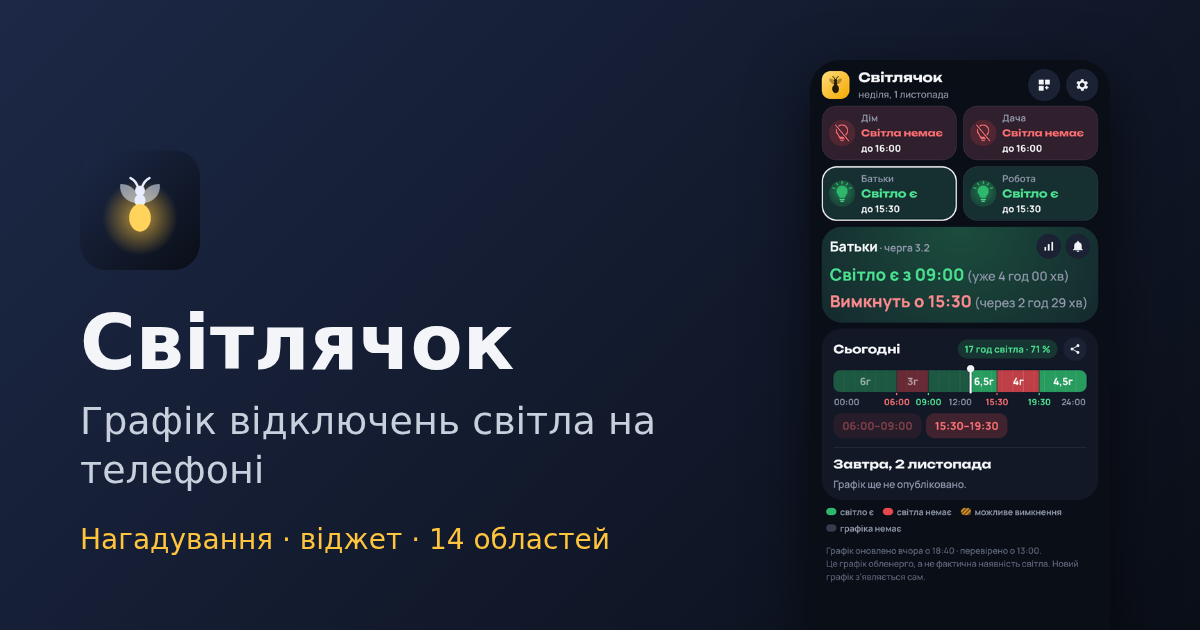
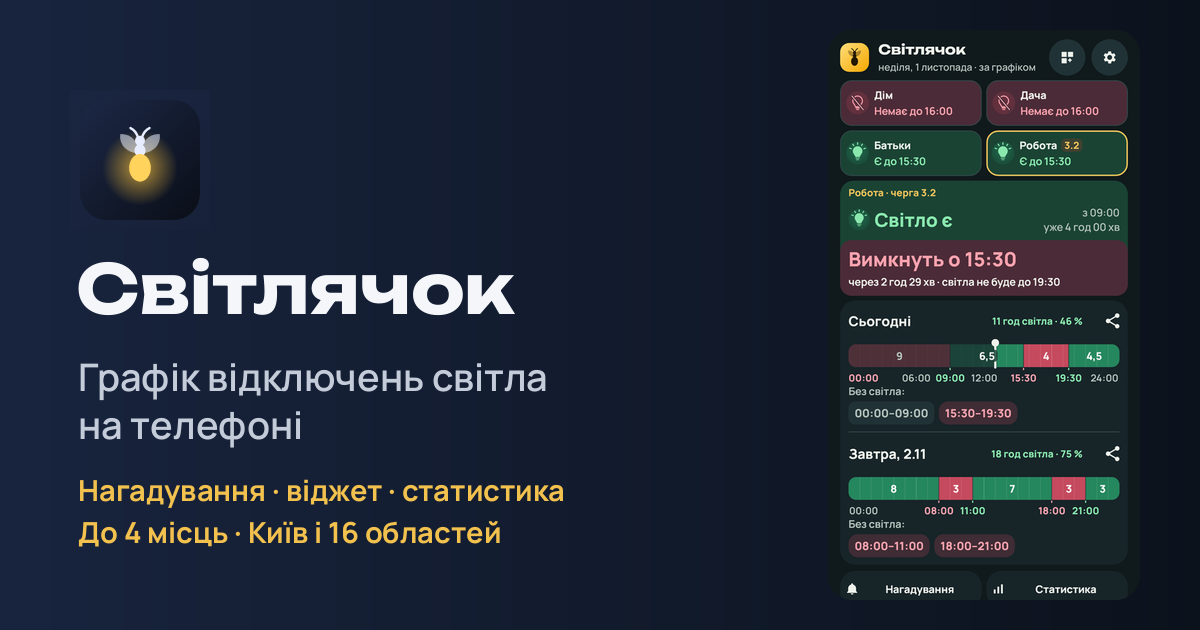
Картинка посилання й опис сайту з поточними можливостями

Changed region(s): [[0.6783, 0.0603, 0.9558, 0.9651], [0.0617, 0.2111, 0.555, 0.8746]]

diff --git a/docs/index.html b/docs/index.html
@@ -4,7 +4,7 @@
 <meta charset="utf-8">
 <meta name="viewport" content="width=device-width,initial-scale=1">
 <title>Світлячок — графік відключень світла на телефоні (Android)</title>
-<meta name="description" content="Безкоштовний Android-застосунок із графіком відключень світла для вашої черги: чи є світло зараз, до котрої години й що буде завтра. Нагадування, віджет, Київ і 16 областей. Нічого не надсилає з телефона.">
+<meta name="description" content="Безкоштовний Android-застосунок із графіком відключень світла для вашої черги: чи є світло зараз, до котрої години й що буде завтра. Нагадування, віджет, статистика, до 4 місць, Київ і 16 областей. Нічого не надсилає з телефона.">
 <link rel="canonical" href="https://abovsh.github.io/svitlyachok/">
 <link rel="icon" href="icon.svg" type="image/svg+xml">
 <link rel="apple-touch-icon" href="icon-192.png">
@@ -13,14 +13,14 @@
 <meta property="og:locale" content="uk_UA">
 <meta property="og:site_name" content="Світлячок">
 <meta property="og:title" content="Світлячок — графік відключень світла на телефоні (Android)">
-<meta property="og:description" content="Безкоштовний Android-застосунок із графіком відключень світла для вашої черги: чи є світло зараз, до котрої години й що буде завтра. Нагадування, віджет, Київ і 16 областей. Нічого не надсилає з телефона.">
+<meta property="og:description" content="Безкоштовний Android-застосунок із графіком відключень світла для вашої черги: чи є світло зараз, до котрої години й що буде завтра. Нагадування, віджет, статистика, до 4 місць, Київ і 16 областей. Нічого не надсилає з телефона.">
 <meta property="og:url" content="https://abovsh.github.io/svitlyachok/">
-<meta property="og:image" content="https://abovsh.github.io/svitlyachok/og.png">
+<meta property="og:image" content="https://abovsh.github.io/svitlyachok/og.png?v=1.6.0">
 <meta property="og:image:width" content="1200">
 <meta property="og:image:height" content="630">
 <meta name="twitter:card" content="summary_large_image">
 <link rel="stylesheet" href="site.css">
-<script type="application/ld+json">{"@context": "https://schema.org", "@type": "SoftwareApplication", "name": "Світлячок", "alternateName": "Svitlyachok", "operatingSystem": "Android 8.0+", "applicationCategory": "UtilitiesApplication", "description": "Безкоштовний Android-застосунок із графіком відключень світла для вашої черги: чи є світло зараз, до котрої години й що буде завтра. Нагадування, віджет, Київ і 16 областей. Нічого не надсилає з телефона.", "url": "https://abovsh.github.io/svitlyachok/", "downloadUrl": "https://github.com/ABovsh/svitlyachok/releases/latest", "inLanguage": "uk", "isAccessibleForFree": true, "license": "https://opensource.org/licenses/MIT", "image": "https://abovsh.github.io/svitlyachok/og.png", "screenshot": ["https://abovsh.github.io/svitlyachok/screenshots/main-dark.png", "https://abovsh.github.io/svitlyachok/screenshots/stats.png", "https://abovsh.github.io/svitlyachok/screenshots/settings.png", "https://abovsh.github.io/svitlyachok/screenshots/main-light.png"], "offers": {"@type": "Offer", "price": "0", "priceCurrency": "UAH"}}</script>
+<script type="application/ld+json">{"@context": "https://schema.org", "@type": "SoftwareApplication", "name": "Світлячок", "alternateName": "Svitlyachok", "operatingSystem": "Android 8.0+", "applicationCategory": "UtilitiesApplication", "description": "Безкоштовний Android-застосунок із графіком відключень світла для вашої черги: чи є світло зараз, до котрої години й що буде завтра. Нагадування, віджет, статистика, до 4 місць, Київ і 16 областей. Нічого не надсилає з телефона.", "url": "https://abovsh.github.io/svitlyachok/", "downloadUrl": "https://github.com/ABovsh/svitlyachok/releases/latest", "inLanguage": "uk", "isAccessibleForFree": true, "license": "https://opensource.org/licenses/MIT", "image": "https://abovsh.github.io/svitlyachok/og.png?v=1.6.0", "screenshot": ["https://abovsh.github.io/svitlyachok/screenshots/main-dark.png", "https://abovsh.github.io/svitlyachok/screenshots/stats.png", "https://abovsh.github.io/svitlyachok/screenshots/settings.png", "https://abovsh.github.io/svitlyachok/screenshots/main-light.png"], "offers": {"@type": "Offer", "price": "0", "priceCurrency": "UAH"}}</script>
 <script type="application/ld+json">{"@context": "https://schema.org", "@type": "FAQPage", "mainEntity": [{"@type": "Question", "name": "Скільки коштує Світлячок?", "acceptedAnswer": {"@type": "Answer", "text": "Нічого. Без реклами, без облікового запису й без платних функцій."}}, {"@type": "Question", "name": "Чи є версія для iPhone?", "acceptedAnswer": {"@type": "Answer", "text": "Ні, лише для Android 8.0 і новіших."}}, {"@type": "Question", "name": "Чи показує застосунок, чи є світло насправді?", "acceptedAnswer": {"@type": "Answer", "text": "Ні. Він показує графік, який публікує обленерго, а не фактичну наявність світла у вашому будинку."}}, {"@type": "Question", "name": "Як дізнатися свою чергу в Києві?", "acceptedAnswer": {"@type": "Answer", "text": "Сайт ДТЕК для Києва графік показує, а номер черги ні. Знайти її за адресою можна на сайті «Без світла» (bezsvitla.com.ua/kyiv), посилання є і в застосунку під час вибору черги. Це неофіційний сайт; перевірити чергу можна на гарячій лінії ДТЕК 1588."}}, {"@type": "Question", "name": "Як часто оновлюється графік?", "acceptedAnswer": {"@type": "Answer", "text": "Приблизно раз на 15 хвилин і щоразу, коли ви відкриваєте застосунок. Новий графік з'являється на екрані й на віджетах сам."}}, {"@type": "Question", "name": "Чому застосунку немає в Google Play і чи безпечно встановлювати файл?", "acceptedAnswer": {"@type": "Answer", "text": "Поки що Світлячок поширюється лише через GitHub. Код застосунку відкритий, біля кожного файлу випуску вказано його SHA-256, а сам застосунок нічого не надсилає з телефона."}}, {"@type": "Question", "name": "Як оновлювати застосунок?", "acceptedAnswer": {"@type": "Answer", "text": "Коли вийде нова версія, на головному екрані застосунку з'явиться картка. Натисніть «Оновити» — нова версія встановиться поверх, місця й налаштування збережуться."}}]}</script>
 </head>
 <body>

diff --git a/docs/dnipropetrovska/index.html b/docs/dnipropetrovska/index.html
@@ -15,12 +15,12 @@
 <meta property="og:title" content="Графік відключень світла — Дніпропетровська область | Світлячок">
 <meta property="og:description" content="Графік погодинних відключень світла Дніпропетровської області (ДТЕК Дніпровські електромережі) на телефоні: чи є світло зараз, до котрої години й що буде завтра. Нагадування й віджет для вашої черги. Безкоштовно, Android.">
 <meta property="og:url" content="https://abovsh.github.io/svitlyachok/dnipropetrovska/">
-<meta property="og:image" content="https://abovsh.github.io/svitlyachok/og.png">
+<meta property="og:image" content="https://abovsh.github.io/svitlyachok/og.png?v=1.6.0">
 <meta property="og:image:width" content="1200">
 <meta property="og:image:height" content="630">
 <meta name="twitter:card" content="summary_large_image">
 <link rel="stylesheet" href="../site.css">
-<script type="application/ld+json">{"@context": "https://schema.org", "@type": "SoftwareApplication", "name": "Світлячок", "alternateName": "Svitlyachok", "operatingSystem": "Android 8.0+", "applicationCategory": "UtilitiesApplication", "description": "Графік погодинних відключень світла Дніпропетровської області (ДТЕК Дніпровські електромережі) на телефоні: чи є світло зараз, до котрої години й що буде завтра. Нагадування й віджет для вашої черги. Безкоштовно, Android.", "url": "https://abovsh.github.io/svitlyachok/", "downloadUrl": "https://github.com/ABovsh/svitlyachok/releases/latest", "inLanguage": "uk", "isAccessibleForFree": true, "license": "https://opensource.org/licenses/MIT", "image": "https://abovsh.github.io/svitlyachok/og.png", "screenshot": ["https://abovsh.github.io/svitlyachok/screenshots/main-dark.png", "https://abovsh.github.io/svitlyachok/screenshots/stats.png", "https://abovsh.github.io/svitlyachok/screenshots/settings.png", "https://abovsh.github.io/svitlyachok/screenshots/main-light.png"], "offers": {"@type": "Offer", "price": "0", "priceCurrency": "UAH"}}</script>
+<script type="application/ld+json">{"@context": "https://schema.org", "@type": "SoftwareApplication", "name": "Світлячок", "alternateName": "Svitlyachok", "operatingSystem": "Android 8.0+", "applicationCategory": "UtilitiesApplication", "description": "Графік погодинних відключень світла Дніпропетровської області (ДТЕК Дніпровські електромережі) на телефоні: чи є світло зараз, до котрої години й що буде завтра. Нагадування й віджет для вашої черги. Безкоштовно, Android.", "url": "https://abovsh.github.io/svitlyachok/", "downloadUrl": "https://github.com/ABovsh/svitlyachok/releases/latest", "inLanguage": "uk", "isAccessibleForFree": true, "license": "https://opensource.org/licenses/MIT", "image": "https://abovsh.github.io/svitlyachok/og.png?v=1.6.0", "screenshot": ["https://abovsh.github.io/svitlyachok/screenshots/main-dark.png", "https://abovsh.github.io/svitlyachok/screenshots/stats.png", "https://abovsh.github.io/svitlyachok/screenshots/settings.png", "https://abovsh.github.io/svitlyachok/screenshots/main-light.png"], "offers": {"@type": "Offer", "price": "0", "priceCurrency": "UAH"}}</script>
 <script type="application/ld+json">{"@context": "https://schema.org", "@type": "BreadcrumbList", "itemListElement": [{"@type": "ListItem", "position": 1, "name": "Світлячок", "item": "https://abovsh.github.io/svitlyachok/"}, {"@type": "ListItem", "position": 2, "name": "Дніпропетровська область", "item": "https://abovsh.github.io/svitlyachok/dnipropetrovska/"}]}</script>
 </head>
 <body>

diff --git a/docs/kyivska/index.html b/docs/kyivska/index.html
@@ -15,12 +15,12 @@
 <meta property="og:title" content="Графік відключень світла — Київська область | Світлячок">
 <meta property="og:description" content="Графік погодинних відключень світла Київської області (ДТЕК Київські регіональні електромережі) на телефоні: чи є світло зараз, до котрої години й що буде завтра. Нагадування й віджет для вашої черги. Безкоштовно, Android.">
 <meta property="og:url" content="https://abovsh.github.io/svitlyachok/kyivska/">
-<meta property="og:image" content="https://abovsh.github.io/svitlyachok/og.png">
+<meta property="og:image" content="https://abovsh.github.io/svitlyachok/og.png?v=1.6.0">
 <meta property="og:image:width" content="1200">
 <meta property="og:image:height" content="630">
 <meta name="twitter:card" content="summary_large_image">
 <link rel="stylesheet" href="../site.css">
-<script type="application/ld+json">{"@context": "https://schema.org", "@type": "SoftwareApplication", "name": "Світлячок", "alternateName": "Svitlyachok", "operatingSystem": "Android 8.0+", "applicationCategory": "UtilitiesApplication", "description": "Графік погодинних відключень світла Київської області (ДТЕК Київські регіональні електромережі) на телефоні: чи є світло зараз, до котрої години й що буде завтра. Нагадування й віджет для вашої черги. Безкоштовно, Android.", "url": "https://abovsh.github.io/svitlyachok/", "downloadUrl": "https://github.com/ABovsh/svitlyachok/releases/latest", "inLanguage": "uk", "isAccessibleForFree": true, "license": "https://opensource.org/licenses/MIT", "image": "https://abovsh.github.io/svitlyachok/og.png", "screenshot": ["https://abovsh.github.io/svitlyachok/screenshots/main-dark.png", "https://abovsh.github.io/svitlyachok/screenshots/stats.png", "https://abovsh.github.io/svitlyachok/screenshots/settings.png", "https://abovsh.github.io/svitlyachok/screenshots/main-light.png"], "offers": {"@type": "Offer", "price": "0", "priceCurrency": "UAH"}}</script>
+<script type="application/ld+json">{"@context": "https://schema.org", "@type": "SoftwareApplication", "name": "Світлячок", "alternateName": "Svitlyachok", "operatingSystem": "Android 8.0+", "applicationCategory": "UtilitiesApplication", "description": "Графік погодинних відключень світла Київської області (ДТЕК Київські регіональні електромережі) на телефоні: чи є світло зараз, до котрої години й що буде завтра. Нагадування й віджет для вашої черги. Безкоштовно, Android.", "url": "https://abovsh.github.io/svitlyachok/", "downloadUrl": "https://github.com/ABovsh/svitlyachok/releases/latest", "inLanguage": "uk", "isAccessibleForFree": true, "license": "https://opensource.org/licenses/MIT", "image": "https://abovsh.github.io/svitlyachok/og.png?v=1.6.0", "screenshot": ["https://abovsh.github.io/svitlyachok/screenshots/main-dark.png", "https://abovsh.github.io/svitlyachok/screenshots/stats.png", "https://abovsh.github.io/svitlyachok/screenshots/settings.png", "https://abovsh.github.io/svitlyachok/screenshots/main-light.png"], "offers": {"@type": "Offer", "price": "0", "priceCurrency": "UAH"}}</script>
 <script type="application/ld+json">{"@context": "https://schema.org", "@type": "BreadcrumbList", "itemListElement": [{"@type": "ListItem", "position": 1, "name": "Світлячок", "item": "https://abovsh.github.io/svitlyachok/"}, {"@type": "ListItem", "position": 2, "name": "Київська область", "item": "https://abovsh.github.io/svitlyachok/kyivska/"}]}</script>
 </head>
 <body>

diff --git a/docs/ivano-frankivska/index.html b/docs/ivano-frankivska/index.html
@@ -15,12 +15,12 @@
 <meta property="og:title" content="Графік відключень світла — Івано-Франківська область | Світлячок">
 <meta property="og:description" content="Графік погодинних відключень світла Івано-Франківської області (Прикарпаттяобленерго) на телефоні: чи є світло зараз, до котрої години й що буде завтра. Нагадування й віджет для вашої черги. Безкоштовно, Android.">
 <meta property="og:url" content="https://abovsh.github.io/svitlyachok/ivano-frankivska/">
-<meta property="og:image" content="https://abovsh.github.io/svitlyachok/og.png">
+<meta property="og:image" content="https://abovsh.github.io/svitlyachok/og.png?v=1.6.0">
 <meta property="og:image:width" content="1200">
 <meta property="og:image:height" content="630">
 <meta name="twitter:card" content="summary_large_image">
 <link rel="stylesheet" href="../site.css">
-<script type="application/ld+json">{"@context": "https://schema.org", "@type": "SoftwareApplication", "name": "Світлячок", "alternateName": "Svitlyachok", "operatingSystem": "Android 8.0+", "applicationCategory": "UtilitiesApplication", "description": "Графік погодинних відключень світла Івано-Франківської області (Прикарпаттяобленерго) на телефоні: чи є світло зараз, до котрої години й що буде завтра. Нагадування й віджет для вашої черги. Безкоштовно, Android.", "url": "https://abovsh.github.io/svitlyachok/", "downloadUrl": "https://github.com/ABovsh/svitlyachok/releases/latest", "inLanguage": "uk", "isAccessibleForFree": true, "license": "https://opensource.org/licenses/MIT", "image": "https://abovsh.github.io/svitlyachok/og.png", "screenshot": ["https://abovsh.github.io/svitlyachok/screenshots/main-dark.png", "https://abovsh.github.io/svitlyachok/screenshots/stats.png", "https://abovsh.github.io/svitlyachok/screenshots/settings.png", "https://abovsh.github.io/svitlyachok/screenshots/main-light.png"], "offers": {"@type": "Offer", "price": "0", "priceCurrency": "UAH"}}</script>
+<script type="application/ld+json">{"@context": "https://schema.org", "@type": "SoftwareApplication", "name": "Світлячок", "alternateName": "Svitlyachok", "operatingSystem": "Android 8.0+", "applicationCategory": "UtilitiesApplication", "description": "Графік погодинних відключень світла Івано-Франківської області (Прикарпаттяобленерго) на телефоні: чи є світло зараз, до котрої години й що буде завтра. Нагадування й віджет для вашої черги. Безкоштовно, Android.", "url": "https://abovsh.github.io/svitlyachok/", "downloadUrl": "https://github.com/ABovsh/svitlyachok/releases/latest", "inLanguage": "uk", "isAccessibleForFree": true, "license": "https://opensource.org/licenses/MIT", "image": "https://abovsh.github.io/svitlyachok/og.png?v=1.6.0", "screenshot": ["https://abovsh.github.io/svitlyachok/screenshots/main-dark.png", "https://abovsh.github.io/svitlyachok/screenshots/stats.png", "https://abovsh.github.io/svitlyachok/screenshots/settings.png", "https://abovsh.github.io/svitlyachok/screenshots/main-light.png"], "offers": {"@type": "Offer", "price": "0", "priceCurrency": "UAH"}}</script>
 <script type="application/ld+json">{"@context": "https://schema.org", "@type": "BreadcrumbList", "itemListElement": [{"@type": "ListItem", "position": 1, "name": "Світлячок", "item": "https://abovsh.github.io/svitlyachok/"}, {"@type": "ListItem", "position": 2, "name": "Івано-Франківська область", "item": "https://abovsh.github.io/svitlyachok/ivano-frankivska/"}]}</script>
 </head>
 <body>

diff --git a/docs/ternopilska/index.html b/docs/ternopilska/index.html
@@ -15,12 +15,12 @@
 <meta property="og:title" content="Графік відключень світла — Тернопільська область | Світлячок">
 <meta property="og:description" content="Графік погодинних відключень світла Тернопільської області (Тернопільобленерго) на телефоні: чи є світло зараз, до котрої години й що буде завтра. Нагадування й віджет для вашої черги. Безкоштовно, Android.">
 <meta property="og:url" content="https://abovsh.github.io/svitlyachok/ternopilska/">
-<meta property="og:image" content="https://abovsh.github.io/svitlyachok/og.png">
+<meta property="og:image" content="https://abovsh.github.io/svitlyachok/og.png?v=1.6.0">
 <meta property="og:image:width" content="1200">
 <meta property="og:image:height" content="630">
 <meta name="twitter:card" content="summary_large_image">
 <link rel="stylesheet" href="../site.css">
-<script type="application/ld+json">{"@context": "https://schema.org", "@type": "SoftwareApplication", "name": "Світлячок", "alternateName": "Svitlyachok", "operatingSystem": "Android 8.0+", "applicationCategory": "UtilitiesApplication", "description": "Графік погодинних відключень світла Тернопільської області (Тернопільобленерго) на телефоні: чи є світло зараз, до котрої години й що буде завтра. Нагадування й віджет для вашої черги. Безкоштовно, Android.", "url": "https://abovsh.github.io/svitlyachok/", "downloadUrl": "https://github.com/ABovsh/svitlyachok/releases/latest", "inLanguage": "uk", "isAccessibleForFree": true, "license": "https://opensource.org/licenses/MIT", "image": "https://abovsh.github.io/svitlyachok/og.png", "screenshot": ["https://abovsh.github.io/svitlyachok/screenshots/main-dark.png", "https://abovsh.github.io/svitlyachok/screenshots/stats.png", "https://abovsh.github.io/svitlyachok/screenshots/settings.png", "https://abovsh.github.io/svitlyachok/screenshots/main-light.png"], "offers": {"@type": "Offer", "price": "0", "priceCurrency": "UAH"}}</script>
+<script type="application/ld+json">{"@context": "https://schema.org", "@type": "SoftwareApplication", "name": "Світлячок", "alternateName": "Svitlyachok", "operatingSystem": "Android 8.0+", "applicationCategory": "UtilitiesApplication", "description": "Графік погодинних відключень світла Тернопільської області (Тернопільобленерго) на телефоні: чи є світло зараз, до котрої години й що буде завтра. Нагадування й віджет для вашої черги. Безкоштовно, Android.", "url": "https://abovsh.github.io/svitlyachok/", "downloadUrl": "https://github.com/ABovsh/svitlyachok/releases/latest", "inLanguage": "uk", "isAccessibleForFree": true, "license": "https://opensource.org/licenses/MIT", "image": "https://abovsh.github.io/svitlyachok/og.png?v=1.6.0", "screenshot": ["https://abovsh.github.io/svitlyachok/screenshots/main-dark.png", "https://abovsh.github.io/svitlyachok/screenshots/stats.png", "https://abovsh.github.io/svitlyachok/screenshots/settings.png", "https://abovsh.github.io/svitlyachok/screenshots/main-light.png"], "offers": {"@type": "Offer", "price": "0", "priceCurrency": "UAH"}}</script>
 <script type="application/ld+json">{"@context": "https://schema.org", "@type": "BreadcrumbList", "itemListElement": [{"@type": "ListItem", "position": 1, "name": "Світлячок", "item": "https://abovsh.github.io/svitlyachok/"}, {"@type": "ListItem", "position": 2, "name": "Тернопільська область", "item": "https://abovsh.github.io/svitlyachok/ternopilska/"}]}</script>
 </head>
 <body>

diff --git a/docs/zakarpatska/index.html b/docs/zakarpatska/index.html
@@ -15,12 +15,12 @@
 <meta property="og:title" content="Графік відключень світла — Закарпатська область | Світлячок">
 <meta property="og:description" content="Графік погодинних відключень світла Закарпатської області (Закарпаттяобленерго) на телефоні: чи є світло зараз, до котрої години й що буде завтра. Нагадування й віджет для вашої черги. Безкоштовно, Android.">
 <meta property="og:url" content="https://abovsh.github.io/svitlyachok/zakarpatska/">
-<meta property="og:image" content="https://abovsh.github.io/svitlyachok/og.png">
+<meta property="og:image" content="https://abovsh.github.io/svitlyachok/og.png?v=1.6.0">
 <meta property="og:image:width" content="1200">
 <meta property="og:image:height" content="630">
 <meta name="twitter:card" content="summary_large_image">
 <link rel="stylesheet" href="../site.css">
-<script type="application/ld+json">{"@context": "https://schema.org", "@type": "SoftwareApplication", "name": "Світлячок", "alternateName": "Svitlyachok", "operatingSystem": "Android 8.0+", "applicationCategory": "UtilitiesApplication", "description": "Графік погодинних відключень світла Закарпатської області (Закарпаттяобленерго) на телефоні: чи є світло зараз, до котрої години й що буде завтра. Нагадування й віджет для вашої черги. Безкоштовно, Android.", "url": "https://abovsh.github.io/svitlyachok/", "downloadUrl": "https://github.com/ABovsh/svitlyachok/releases/latest", "inLanguage": "uk", "isAccessibleForFree": true, "license": "https://opensource.org/licenses/MIT", "image": "https://abovsh.github.io/svitlyachok/og.png", "screenshot": ["https://abovsh.github.io/svitlyachok/screenshots/main-dark.png", "https://abovsh.github.io/svitlyachok/screenshots/stats.png", "https://abovsh.github.io/svitlyachok/screenshots/settings.png", "https://abovsh.github.io/svitlyachok/screenshots/main-light.png"], "offers": {"@type": "Offer", "price": "0", "priceCurrency": "UAH"}}</script>
+<script type="application/ld+json">{"@context": "https://schema.org", "@type": "SoftwareApplication", "name": "Світлячок", "alternateName": "Svitlyachok", "operatingSystem": "Android 8.0+", "applicationCategory": "UtilitiesApplication", "description": "Графік погодинних відключень світла Закарпатської області (Закарпаттяобленерго) на телефоні: чи є світло зараз, до котрої години й що буде завтра. Нагадування й віджет для вашої черги. Безкоштовно, Android.", "url": "https://abovsh.github.io/svitlyachok/", "downloadUrl": "https://github.com/ABovsh/svitlyachok/releases/latest", "inLanguage": "uk", "isAccessibleForFree": true, "license": "https://opensource.org/licenses/MIT", "image": "https://abovsh.github.io/svitlyachok/og.png?v=1.6.0", "screenshot": ["https://abovsh.github.io/svitlyachok/screenshots/main-dark.png", "https://abovsh.github.io/svitlyachok/screenshots/stats.png", "https://abovsh.github.io/svitlyachok/screenshots/settings.png", "https://abovsh.github.io/svitlyachok/screenshots/main-light.png"], "offers": {"@type": "Offer", "price": "0", "priceCurrency": "UAH"}}</script>
 <script type="application/ld+json">{"@context": "https://schema.org", "@type": "BreadcrumbList", "itemListElement": [{"@type": "ListItem", "position": 1, "name": "Світлячок", "item": "https://abovsh.github.io/svitlyachok/"}, {"@type": "ListItem", "position": 2, "name": "Закарпатська область", "item": "https://abovsh.github.io/svitlyachok/zakarpatska/"}]}</script>
 </head>
 <body>

diff --git a/docs/chernihivska/index.html b/docs/chernihivska/index.html
@@ -15,12 +15,12 @@
 <meta property="og:title" content="Графік відключень світла — Чернігівська область | Світлячок">
 <meta property="og:description" content="Графік погодинних відключень світла Чернігівської області (Чернігівобленерго) на телефоні: чи є світло зараз, до котрої години й що буде завтра. Нагадування й віджет для вашої черги. Безкоштовно, Android.">
 <meta property="og:url" content="https://abovsh.github.io/svitlyachok/chernihivska/">
-<meta property="og:image" content="https://abovsh.github.io/svitlyachok/og.png">
+<meta property="og:image" content="https://abovsh.github.io/svitlyachok/og.png?v=1.6.0">
 <meta property="og:image:width" content="1200">
 <meta property="og:image:height" content="630">
 <meta name="twitter:card" content="summary_large_image">
 <link rel="stylesheet" href="../site.css">
-<script type="application/ld+json">{"@context": "https://schema.org", "@type": "SoftwareApplication", "name": "Світлячок", "alternateName": "Svitlyachok", "operatingSystem": "Android 8.0+", "applicationCategory": "UtilitiesApplication", "description": "Графік погодинних відключень світла Чернігівської області (Чернігівобленерго) на телефоні: чи є світло зараз, до котрої години й що буде завтра. Нагадування й віджет для вашої черги. Безкоштовно, Android.", "url": "https://abovsh.github.io/svitlyachok/", "downloadUrl": "https://github.com/ABovsh/svitlyachok/releases/latest", "inLanguage": "uk", "isAccessibleForFree": true, "license": "https://opensource.org/licenses/MIT", "image": "https://abovsh.github.io/svitlyachok/og.png", "screenshot": ["https://abovsh.github.io/svitlyachok/screenshots/main-dark.png", "https://abovsh.github.io/svitlyachok/screenshots/stats.png", "https://abovsh.github.io/svitlyachok/screenshots/settings.png", "https://abovsh.github.io/svitlyachok/screenshots/main-light.png"], "offers": {"@type": "Offer", "price": "0", "priceCurrency": "UAH"}}</script>
+<script type="application/ld+json">{"@context": "https://schema.org", "@type": "SoftwareApplication", "name": "Світлячок", "alternateName": "Svitlyachok", "operatingSystem": "Android 8.0+", "applicationCategory": "UtilitiesApplication", "description": "Графік погодинних відключень світла Чернігівської області (Чернігівобленерго) на телефоні: чи є світло зараз, до котрої години й що буде завтра. Нагадування й віджет для вашої черги. Безкоштовно, Android.", "url": "https://abovsh.github.io/svitlyachok/", "downloadUrl": "https://github.com/ABovsh/svitlyachok/releases/latest", "inLanguage": "uk", "isAccessibleForFree": true, "license": "https://opensource.org/licenses/MIT", "image": "https://abovsh.github.io/svitlyachok/og.png?v=1.6.0", "screenshot": ["https://abovsh.github.io/svitlyachok/screenshots/main-dark.png", "https://abovsh.github.io/svitlyachok/screenshots/stats.png", "https://abovsh.github.io/svitlyachok/screenshots/settings.png", "https://abovsh.github.io/svitlyachok/screenshots/main-light.png"], "offers": {"@type": "Offer", "price": "0", "priceCurrency": "UAH"}}</script>
 <script type="application/ld+json">{"@context": "https://schema.org", "@type": "BreadcrumbList", "itemListElement": [{"@type": "ListItem", "position": 1, "name": "Світлячок", "item": "https://abovsh.github.io/svitlyachok/"}, {"@type": "ListItem", "position": 2, "name": "Чернігівська область", "item": "https://abovsh.github.io/svitlyachok/chernihivska/"}]}</script>
 </head>
 <body>

diff --git a/docs/khmelnytska/index.html b/docs/khmelnytska/index.html
@@ -15,12 +15,12 @@
 <meta property="og:title" content="Графік відключень світла — Хмельницька область | Світлячок">
 <meta property="og:description" content="Графік погодинних відключень світла Хмельницької області (Хмельницькобленерго) на телефоні: чи є світло зараз, до котрої години й що буде завтра. Нагадування й віджет для вашої черги. Безкоштовно, Android.">
 <meta property="og:url" content="https://abovsh.github.io/svitlyachok/khmelnytska/">
-<meta property="og:image" content="https://abovsh.github.io/svitlyachok/og.png">
+<meta property="og:image" content="https://abovsh.github.io/svitlyachok/og.png?v=1.6.0">
 <meta property="og:image:width" content="1200">
 <meta property="og:image:height" content="630">
 <meta name="twitter:card" content="summary_large_image">
 <link rel="stylesheet" href="../site.css">
-<script type="application/ld+json">{"@context": "https://schema.org", "@type": "SoftwareApplication", "name": "Світлячок", "alternateName": "Svitlyachok", "operatingSystem": "Android 8.0+", "applicationCategory": "UtilitiesApplication", "description": "Графік погодинних відключень світла Хмельницької області (Хмельницькобленерго) на телефоні: чи є світло зараз, до котрої години й що буде завтра. Нагадування й віджет для вашої черги. Безкоштовно, Android.", "url": "https://abovsh.github.io/svitlyachok/", "downloadUrl": "https://github.com/ABovsh/svitlyachok/releases/latest", "inLanguage": "uk", "isAccessibleForFree": true, "license": "https://opensource.org/licenses/MIT", "image": "https://abovsh.github.io/svitlyachok/og.png", "screenshot": ["https://abovsh.github.io/svitlyachok/screenshots/main-dark.png", "https://abovsh.github.io/svitlyachok/screenshots/stats.png", "https://abovsh.github.io/svitlyachok/screenshots/settings.png", "https://abovsh.github.io/svitlyachok/screenshots/main-light.png"], "offers": {"@type": "Offer", "price": "0", "priceCurrency": "UAH"}}</script>
+<script type="application/ld+json">{"@context": "https://schema.org", "@type": "SoftwareApplication", "name": "Світлячок", "alternateName": "Svitlyachok", "operatingSystem": "Android 8.0+", "applicationCategory": "UtilitiesApplication", "description": "Графік погодинних відключень світла Хмельницької області (Хмельницькобленерго) на телефоні: чи є світло зараз, до котрої години й що буде завтра. Нагадування й віджет для вашої черги. Безкоштовно, Android.", "url": "https://abovsh.github.io/svitlyachok/", "downloadUrl": "https://github.com/ABovsh/svitlyachok/releases/latest", "inLanguage": "uk", "isAccessibleForFree": true, "license": "https://opensource.org/licenses/MIT", "image": "https://abovsh.github.io/svitlyachok/og.png?v=1.6.0", "screenshot": ["https://abovsh.github.io/svitlyachok/screenshots/main-dark.png", "https://abovsh.github.io/svitlyachok/screenshots/stats.png", "https://abovsh.github.io/svitlyachok/screenshots/settings.png", "https://abovsh.github.io/svitlyachok/screenshots/main-light.png"], "offers": {"@type": "Offer", "price": "0", "priceCurrency": "UAH"}}</script>
 <script type="application/ld+json">{"@context": "https://schema.org", "@type": "BreadcrumbList", "itemListElement": [{"@type": "ListItem", "position": 1, "name": "Світлячок", "item": "https://abovsh.github.io/svitlyachok/"}, {"@type": "ListItem", "position": 2, "name": "Хмельницька область", "item": "https://abovsh.github.io/svitlyachok/khmelnytska/"}]}</script>
 </head>
 <body>

diff --git a/docs/odeska/index.html b/docs/odeska/index.html
@@ -15,12 +15,12 @@
 <meta property="og:title" content="Графік відключень світла — Одеська область | Світлячок">
 <meta property="og:description" content="Графік погодинних відключень світла Одеської області (ДТЕК Одеські електромережі) на телефоні: чи є світло зараз, до котрої години й що буде завтра. Нагадування й віджет для вашої черги. Безкоштовно, Android.">
 <meta property="og:url" content="https://abovsh.github.io/svitlyachok/odeska/">
-<meta property="og:image" content="https://abovsh.github.io/svitlyachok/og.png">
+<meta property="og:image" content="https://abovsh.github.io/svitlyachok/og.png?v=1.6.0">
 <meta property="og:image:width" content="1200">
 <meta property="og:image:height" content="630">
 <meta name="twitter:card" content="summary_large_image">
 <link rel="stylesheet" href="../site.css">
-<script type="application/ld+json">{"@context": "https://schema.org", "@type": "SoftwareApplication", "name": "Світлячок", "alternateName": "Svitlyachok", "operatingSystem": "Android 8.0+", "applicationCategory": "UtilitiesApplication", "description": "Графік погодинних відключень світла Одеської області (ДТЕК Одеські електромережі) на телефоні: чи є світло зараз, до котрої години й що буде завтра. Нагадування й віджет для вашої черги. Безкоштовно, Android.", "url": "https://abovsh.github.io/svitlyachok/", "downloadUrl": "https://github.com/ABovsh/svitlyachok/releases/latest", "inLanguage": "uk", "isAccessibleForFree": true, "license": "https://opensource.org/licenses/MIT", "image": "https://abovsh.github.io/svitlyachok/og.png", "screenshot": ["https://abovsh.github.io/svitlyachok/screenshots/main-dark.png", "https://abovsh.github.io/svitlyachok/screenshots/stats.png", "https://abovsh.github.io/svitlyachok/screenshots/settings.png", "https://abovsh.github.io/svitlyachok/screenshots/main-light.png"], "offers": {"@type": "Offer", "price": "0", "priceCurrency": "UAH"}}</script>
+<script type="application/ld+json">{"@context": "https://schema.org", "@type": "SoftwareApplication", "name": "Світлячок", "alternateName": "Svitlyachok", "operatingSystem": "Android 8.0+", "applicationCategory": "UtilitiesApplication", "description": "Графік погодинних відключень світла Одеської області (ДТЕК Одеські електромережі) на телефоні: чи є світло зараз, до котрої години й що буде завтра. Нагадування й віджет для вашої черги. Безкоштовно, Android.", "url": "https://abovsh.github.io/svitlyachok/", "downloadUrl": "https://github.com/ABovsh/svitlyachok/releases/latest", "inLanguage": "uk", "isAccessibleForFree": true, "license": "https://opensource.org/licenses/MIT", "image": "https://abovsh.github.io/svitlyachok/og.png?v=1.6.0", "screenshot": ["https://abovsh.github.io/svitlyachok/screenshots/main-dark.png", "https://abovsh.github.io/svitlyachok/screenshots/stats.png", "https://abovsh.github.io/svitlyachok/screenshots/settings.png", "https://abovsh.github.io/svitlyachok/screenshots/main-light.png"], "offers": {"@type": "Offer", "price": "0", "priceCurrency": "UAH"}}</script>
 <script type="application/ld+json">{"@context": "https://schema.org", "@type": "BreadcrumbList", "itemListElement": [{"@type": "ListItem", "position": 1, "name": "Світлячок", "item": "https://abovsh.github.io/svitlyachok/"}, {"@type": "ListItem", "position": 2, "name": "Одеська область", "item": "https://abovsh.github.io/svitlyachok/odeska/"}]}</script>
 </head>
 <body>

diff --git a/docs/zhytomyrska/index.html b/docs/zhytomyrska/index.html
@@ -15,12 +15,12 @@
 <meta property="og:title" content="Графік відключень світла — Житомирська область | Світлячок">
 <meta property="og:description" content="Графік погодинних відключень світла Житомирської області (Житомиробленерго) на телефоні: чи є світло зараз, до котрої години й що буде завтра. Нагадування й віджет для вашої черги. Безкоштовно, Android.">
 <meta property="og:url" content="https://abovsh.github.io/svitlyachok/zhytomyrska/">
-<meta property="og:image" content="https://abovsh.github.io/svitlyachok/og.png">
+<meta property="og:image" content="https://abovsh.github.io/svitlyachok/og.png?v=1.6.0">
 <meta property="og:image:width" content="1200">
 <meta property="og:image:height" content="630">
 <meta name="twitter:card" content="summary_large_image">
 <link rel="stylesheet" href="../site.css">
-<script type="application/ld+json">{"@context": "https://schema.org", "@type": "SoftwareApplication", "name": "Світлячок", "alternateName": "Svitlyachok", "operatingSystem": "Android 8.0+", "applicationCategory": "UtilitiesApplication", "description": "Графік погодинних відключень світла Житомирської області (Житомиробленерго) на телефоні: чи є світло зараз, до котрої години й що буде завтра. Нагадування й віджет для вашої черги. Безкоштовно, Android.", "url": "https://abovsh.github.io/svitlyachok/", "downloadUrl": "https://github.com/ABovsh/svitlyachok/releases/latest", "inLanguage": "uk", "isAccessibleForFree": true, "license": "https://opensource.org/licenses/MIT", "image": "https://abovsh.github.io/svitlyachok/og.png", "screenshot": ["https://abovsh.github.io/svitlyachok/screenshots/main-dark.png", "https://abovsh.github.io/svitlyachok/screenshots/stats.png", "https://abovsh.github.io/svitlyachok/screenshots/settings.png", "https://abovsh.github.io/svitlyachok/screenshots/main-light.png"], "offers": {"@type": "Offer", "price": "0", "priceCurrency": "UAH"}}</script>
+<script type="application/ld+json">{"@context": "https://schema.org", "@type": "SoftwareApplication", "name": "Світлячок", "alternateName": "Svitlyachok", "operatingSystem": "Android 8.0+", "applicationCategory": "UtilitiesApplication", "description": "Графік погодинних відключень світла Житомирської області (Житомиробленерго) на телефоні: чи є світло зараз, до котрої години й що буде завтра. Нагадування й віджет для вашої черги. Безкоштовно, Android.", "url": "https://abovsh.github.io/svitlyachok/", "downloadUrl": "https://github.com/ABovsh/svitlyachok/releases/latest", "inLanguage": "uk", "isAccessibleForFree": true, "license": "https://opensource.org/licenses/MIT", "image": "https://abovsh.github.io/svitlyachok/og.png?v=1.6.0", "screenshot": ["https://abovsh.github.io/svitlyachok/screenshots/main-dark.png", "https://abovsh.github.io/svitlyachok/screenshots/stats.png", "https://abovsh.github.io/svitlyachok/screenshots/settings.png", "https://abovsh.github.io/svitlyachok/screenshots/main-light.png"], "offers": {"@type": "Offer", "price": "0", "priceCurrency": "UAH"}}</script>
 <script type="application/ld+json">{"@context": "https://schema.org", "@type": "BreadcrumbList", "itemListElement": [{"@type": "ListItem", "position": 1, "name": "Світлячок", "item": "https://abovsh.github.io/svitlyachok/"}, {"@type": "ListItem", "position": 2, "name": "Житомирська область", "item": "https://abovsh.github.io/svitlyachok/zhytomyrska/"}]}</script>
 </head>
 <body>

diff --git a/docs/zaporizka/index.html b/docs/zaporizka/index.html
@@ -15,12 +15,12 @@
 <meta property="og:title" content="Графік відключень світла — Запорізька область | Світлячок">
 <meta property="og:description" content="Графік погодинних відключень світла Запорізької області (Запоріжжяобленерго) на телефоні: чи є світло зараз, до котрої години й що буде завтра. Нагадування й віджет для вашої черги. Безкоштовно, Android.">
 <meta property="og:url" content="https://abovsh.github.io/svitlyachok/zaporizka/">
-<meta property="og:image" content="https://abovsh.github.io/svitlyachok/og.png">
+<meta property="og:image" content="https://abovsh.github.io/svitlyachok/og.png?v=1.6.0">
 <meta property="og:image:width" content="1200">
 <meta property="og:image:height" content="630">
 <meta name="twitter:card" content="summary_large_image">
 <link rel="stylesheet" href="../site.css">
-<script type="application/ld+json">{"@context": "https://schema.org", "@type": "SoftwareApplication", "name": "Світлячок", "alternateName": "Svitlyachok", "operatingSystem": "Android 8.0+", "applicationCategory": "UtilitiesApplication", "description": "Графік погодинних відключень світла Запорізької області (Запоріжжяобленерго) на телефоні: чи є світло зараз, до котрої години й що буде завтра. Нагадування й віджет для вашої черги. Безкоштовно, Android.", "url": "https://abovsh.github.io/svitlyachok/", "downloadUrl": "https://github.com/ABovsh/svitlyachok/releases/latest", "inLanguage": "uk", "isAccessibleForFree": true, "license": "https://opensource.org/licenses/MIT", "image": "https://abovsh.github.io/svitlyachok/og.png", "screenshot": ["https://abovsh.github.io/svitlyachok/screenshots/main-dark.png", "https://abovsh.github.io/svitlyachok/screenshots/stats.png", "https://abovsh.github.io/svitlyachok/screenshots/settings.png", "https://abovsh.github.io/svitlyachok/screenshots/main-light.png"], "offers": {"@type": "Offer", "price": "0", "priceCurrency": "UAH"}}</script>
+<script type="application/ld+json">{"@context": "https://schema.org", "@type": "SoftwareApplication", "name": "Світлячок", "alternateName": "Svitlyachok", "operatingSystem": "Android 8.0+", "applicationCategory": "UtilitiesApplication", "description": "Графік погодинних відключень світла Запорізької області (Запоріжжяобленерго) на телефоні: чи є світло зараз, до котрої години й що буде завтра. Нагадування й віджет для вашої черги. Безкоштовно, Android.", "url": "https://abovsh.github.io/svitlyachok/", "downloadUrl": "https://github.com/ABovsh/svitlyachok/releases/latest", "inLanguage": "uk", "isAccessibleForFree": true, "license": "https://opensource.org/licenses/MIT", "image": "https://abovsh.github.io/svitlyachok/og.png?v=1.6.0", "screenshot": ["https://abovsh.github.io/svitlyachok/screenshots/main-dark.png", "https://abovsh.github.io/svitlyachok/screenshots/stats.png", "https://abovsh.github.io/svitlyachok/screenshots/settings.png", "https://abovsh.github.io/svitlyachok/screenshots/main-light.png"], "offers": {"@type": "Offer", "price": "0", "priceCurrency": "UAH"}}</script>
 <script type="application/ld+json">{"@context": "https://schema.org", "@type": "BreadcrumbList", "itemListElement": [{"@type": "ListItem", "position": 1, "name": "Світлячок", "item": "https://abovsh.github.io/svitlyachok/"}, {"@type": "ListItem", "position": 2, "name": "Запорізька область", "item": "https://abovsh.github.io/svitlyachok/zaporizka/"}]}</script>
 </head>
 <body>

diff --git a/docs/poltavska/index.html b/docs/poltavska/index.html
@@ -15,12 +15,12 @@
 <meta property="og:title" content="Графік відключень світла — Полтавська область | Світлячок">
 <meta property="og:description" content="Графік погодинних відключень світла Полтавської області (Полтаваобленерго) на телефоні: чи є світло зараз, до котрої години й що буде завтра. Нагадування й віджет для вашої черги. Безкоштовно, Android.">
 <meta property="og:url" content="https://abovsh.github.io/svitlyachok/poltavska/">
-<meta property="og:image" content="https://abovsh.github.io/svitlyachok/og.png">
+<meta property="og:image" content="https://abovsh.github.io/svitlyachok/og.png?v=1.6.0">
 <meta property="og:image:width" content="1200">
 <meta property="og:image:height" content="630">
 <meta name="twitter:card" content="summary_large_image">
 <link rel="stylesheet" href="../site.css">
-<script type="application/ld+json">{"@context": "https://schema.org", "@type": "SoftwareApplication", "name": "Світлячок", "alternateName": "Svitlyachok", "operatingSystem": "Android 8.0+", "applicationCategory": "UtilitiesApplication", "description": "Графік погодинних відключень світла Полтавської області (Полтаваобленерго) на телефоні: чи є світло зараз, до котрої години й що буде завтра. Нагадування й віджет для вашої черги. Безкоштовно, Android.", "url": "https://abovsh.github.io/svitlyachok/", "downloadUrl": "https://github.com/ABovsh/svitlyachok/releases/latest", "inLanguage": "uk", "isAccessibleForFree": true, "license": "https://opensource.org/licenses/MIT", "image": "https://abovsh.github.io/svitlyachok/og.png", "screenshot": ["https://abovsh.github.io/svitlyachok/screenshots/main-dark.png", "https://abovsh.github.io/svitlyachok/screenshots/stats.png", "https://abovsh.github.io/svitlyachok/screenshots/settings.png", "https://abovsh.github.io/svitlyachok/screenshots/main-light.png"], "offers": {"@type": "Offer", "price": "0", "priceCurrency": "UAH"}}</script>
+<script type="application/ld+json">{"@context": "https://schema.org", "@type": "SoftwareApplication", "name": "Світлячок", "alternateName": "Svitlyachok", "operatingSystem": "Android 8.0+", "applicationCategory": "UtilitiesApplication", "description": "Графік погодинних відключень світла Полтавської області (Полтаваобленерго) на телефоні: чи є світло зараз, до котрої години й що буде завтра. Нагадування й віджет для вашої черги. Безкоштовно, Android.", "url": "https://abovsh.github.io/svitlyachok/", "downloadUrl": "https://github.com/ABovsh/svitlyachok/releases/latest", "inLanguage": "uk", "isAccessibleForFree": true, "license": "https://opensource.org/licenses/MIT", "image": "https://abovsh.github.io/svitlyachok/og.png?v=1.6.0", "screenshot": ["https://abovsh.github.io/svitlyachok/screenshots/main-dark.png", "https://abovsh.github.io/svitlyachok/screenshots/stats.png", "https://abovsh.github.io/svitlyachok/screenshots/settings.png", "https://abovsh.github.io/svitlyachok/screenshots/main-light.png"], "offers": {"@type": "Offer", "price": "0", "priceCurrency": "UAH"}}</script>
 <script type="application/ld+json">{"@context": "https://schema.org", "@type": "BreadcrumbList", "itemListElement": [{"@type": "ListItem", "position": 1, "name": "Світлячок", "item": "https://abovsh.github.io/svitlyachok/"}, {"@type": "ListItem", "position": 2, "name": "Полтавська область", "item": "https://abovsh.github.io/svitlyachok/poltavska/"}]}</script>
 </head>
 <body>
